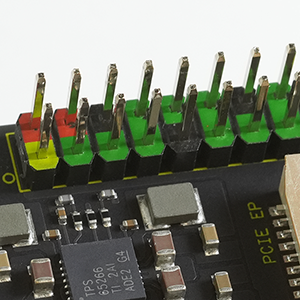
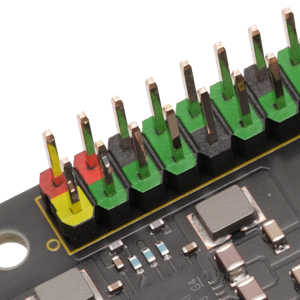
replace with MP1 photo

diff --git a/docs/en/4/4-1/4-1-1/index.html b/docs/en/4/4-1/4-1-1/index.html
@@ -201,59 +201,7 @@ Published on 20 Aug 2024
   
 <ul class="sub-menu">
 
-<li class=""><a href="http://localhost:1313/en/3/3-1/3-1-1/">3.1.1. GPIO</a>
-  
-</li>
-
-<li class=""><a href="http://localhost:1313/en/3/3-1/3-1-2/">3.1.2. CSI</a>
-  
-</li>
-
-<li class=""><a href="http://localhost:1313/en/3/3-1/3-1-3/">3.1.3. DSI</a>
-  
-</li>
-
-<li class=""><a href="http://localhost:1313/en/3/3-1/3-1-4/">3.1.4. PCIe</a>
-  
-</li>
-
-<li class=""><a href="http://localhost:1313/en/3/3-1/3-1-5/">3.1.5. CAN-FD</a>
-  
-</li>
-
-<li class=""><a href="http://localhost:1313/en/3/3-1/3-1-6/">3.1.6. USB3.2 Gen1 Type-A</a>
-  
-</li>
-
-<li class=""><a href="http://localhost:1313/en/3/3-1/3-1-7/">3.1.7. USB2.0 FS Type-C</a>
-  
-</li>
-
-<li class=""><a href="http://localhost:1313/en/3/3-1/3-1-8/">3.1.8. Ethernet</a>
-  
-</li>
-
-<li class=""><a href="http://localhost:1313/en/3/3-1/3-1-9/">3.1.9. microSD card</a>
-  
-</li>
-
-<li class=""><a href="http://localhost:1313/en/3/3-1/3-1-10/">3.1.10. JTAG/SWD</a>
-  
-</li>
-
-<li class=""><a href="http://localhost:1313/en/3/3-1/3-1-11/">3.1.11. DIP-SW</a>
-  
-</li>
-
-<li class=""><a href="http://localhost:1313/en/3/3-1/3-1-12/">3.1.12. Cooling fan connector</a>
-  
-</li>
-
-<li class=""><a href="http://localhost:1313/en/3/3-1/3-1-13/">3.1.13. Power light/Reset switch</a>
-  
-</li>
-
-<li class=""><a href="http://localhost:1313/en/3/3-1/3-1-14/">3.1.14. PoE</a>
+<li class=""><a href="http://localhost:1313/en/5/5-1/5-1-1/">5.1.1 Specifications</a>
   
 </li>
 </ul>

diff --git a/docs/jp/3/3-1/3-1-9/index.html b/docs/jp/3/3-1/3-1-9/index.html
@@ -228,15 +228,14 @@ Published on 27 Jan 2025
   
 <ul class="sub-menu">
 
-<li class=""><a href="http://localhost:1313/jp/2/2-1/">2.1 Boot Mediaの構築</a>
+<li class=""><a href="http://localhost:1313/jp/6/6-1/">6.1 輸出規制</a>
+  
+<ul class="sub-menu">
+
+<li class=""><a href="http://localhost:1313/jp/6/6-1/6-1-1/">6.1.1 品目番号</a>
   
 </li>
-
-<li class=""><a href="http://localhost:1313/jp/2/2-2/">2.2 機器の接続と起動</a>
-  
-</li>
-
-<li class=""><a href="http://localhost:1313/jp/2/2-3/">2.3 ソフトウェアについて</a>
+</ul>
   
 </li>
 </ul>
